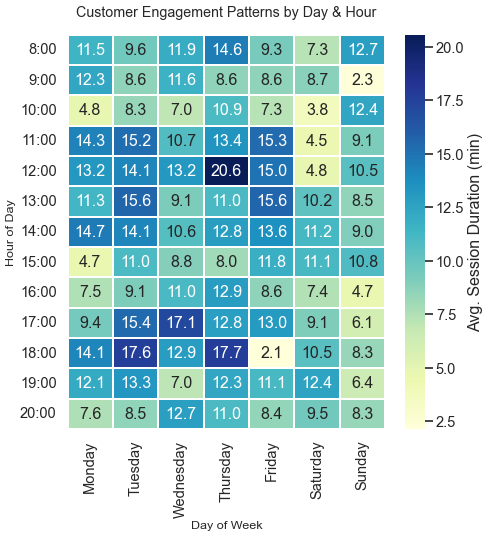
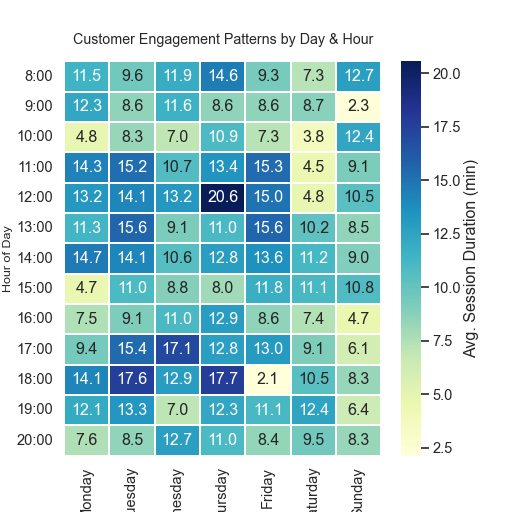
Add files via upload

diff --git a/chart.py b/chart.py
@@ -15,27 +15,22 @@ hours = [f"{h}:00" for h in range(8, 21)]  # business hours: 8AM - 8PM
 
 # Simulate engagement patterns with some realistic variation
 data = np.random.normal(loc=10, scale=3, size=(len(hours), len(days)))
-# Add patterns: higher engagement during mid-day weekdays, drop on weekends
 for i, hour in enumerate(hours):
     for j, day in enumerate(days):
-        # Lunch peak
         if 11 <= int(hour.split(":")[0]) <= 14 and day not in ["Saturday", "Sunday"]:
-            data[i, j] += 5
-        # After work bump
+            data[i, j] += 5  # Lunch peak
         if 17 <= int(hour.split(":")[0]) <= 19 and day in ["Monday", "Tuesday", "Wednesday", "Thursday"]:
-            data[i, j] += 3
-        # Weekend generally lower
+            data[i, j] += 3  # After work bump
         if day in ["Saturday", "Sunday"]:
-            data[i, j] -= 2
+            data[i, j] -= 2  # Weekend dip
 
-# Ensure no negative engagement times
 data = np.clip(data, 0, None)
 
 # Put data in DataFrame
 df = pd.DataFrame(data, index=hours, columns=days)
 
 # Create figure
-plt.figure(figsize=(8, 8))
+plt.figure(figsize=(8, 8), dpi=64)
 
 # Heatmap
 ax = sns.heatmap(
@@ -52,6 +47,6 @@ plt.title("Customer Engagement Patterns by Day & Hour", fontsize=16, pad=20)
 ax.set_xlabel("Day of Week", fontsize=14)
 ax.set_ylabel("Hour of Day", fontsize=14)
 
-# Save as PNG with exact 512x512 pixels
-plt.savefig("chart.png", dpi=64, bbox_inches="tight")
+# Save as EXACT 512x512 pixels
+plt.savefig("chart.png", dpi=64)
 plt.close()
